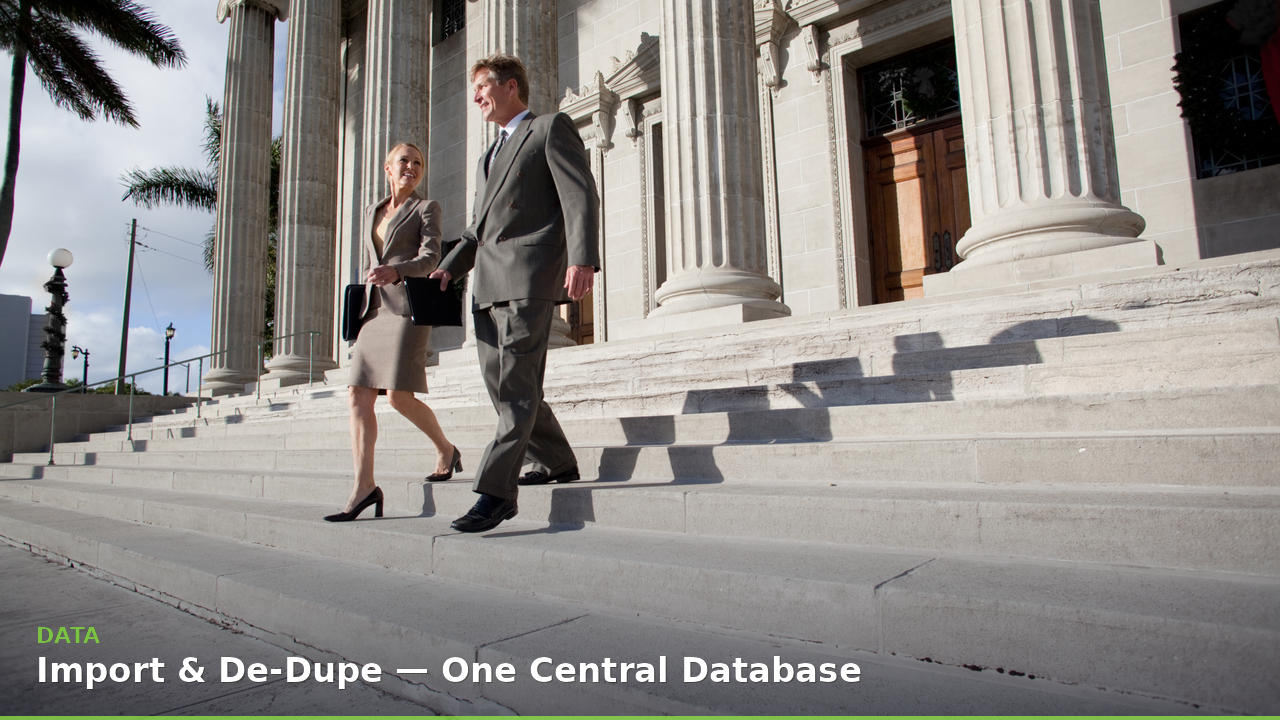
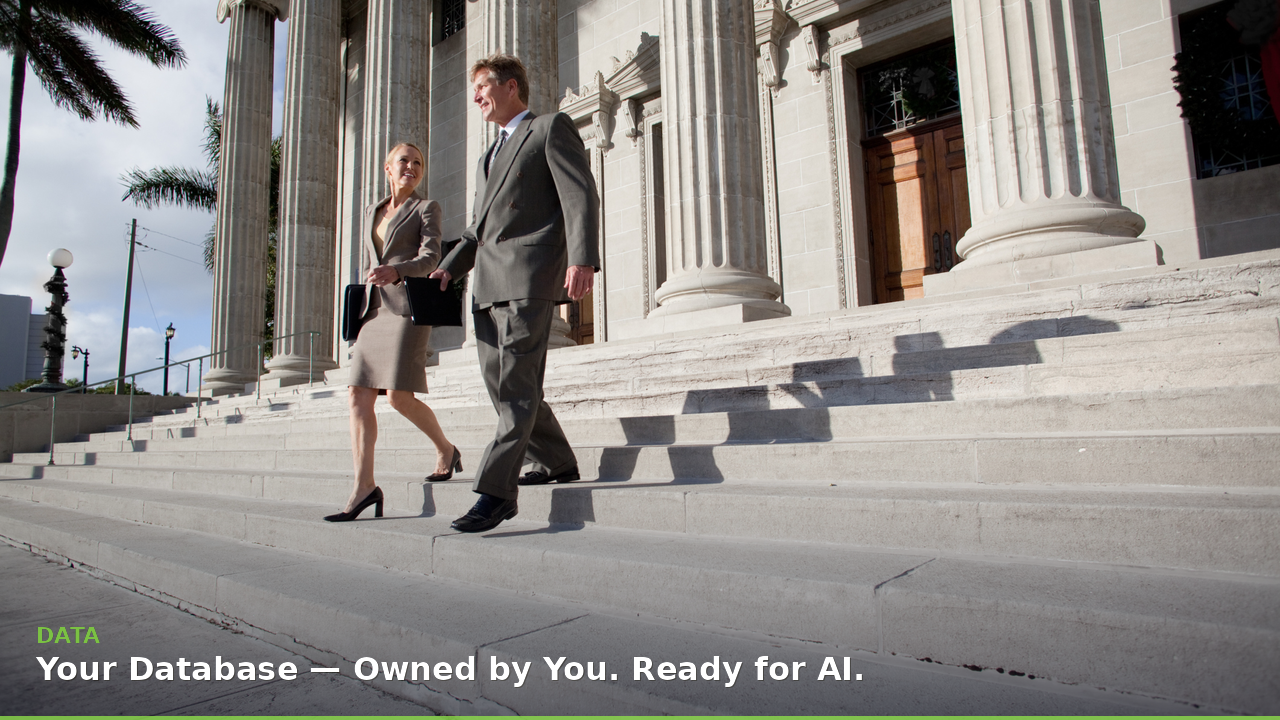
Capabilities Data: owned Database ready for AI — whisper + copy

Changed region(s): [[0.0312, 0.9167, 0.6875, 0.9472]]

diff --git a/capabilities/index.html b/capabilities/index.html
@@ -6,7 +6,7 @@
 <title>Capabilities | iDONATEpro</title>
 <meta name="description" content="From a messy Scranton list to Dundies night — Contacts, Import, Email, Call Sheets, Events in one Donor book. Call Time that wins.">
 <link rel="icon" href="/favicon.ico">
-<link rel="stylesheet" href="/css/site.css?v=102">
+<link rel="stylesheet" href="/css/site.css?v=103">
 </head>
 <body>
 <header class="site-header">
@@ -215,7 +215,7 @@
   <div class="wrap capability-grid">
         <div class="cap-media">
       <figure class="cap-shot">
-        <img src="/img/capabilities/data.png?v=4" alt="Data story graphic" width="1280" height="720" loading="lazy">
+        <img src="/img/capabilities/data.png?v=5" alt="Data story graphic" width="1280" height="720" loading="lazy">
       </figure>
     </div>
 <div class="capability-copy">
@@ -229,6 +229,7 @@
       <h3 class="capability-headline">Pull Data into iDONATEpro from anywhere.</h3>
       <p>Easily Import and De-Dupe Contact Records so you have a single Donor linked to their Entire History.</p>
       <p>With Unlimited Campaigns you can Import or Integrate data with all of the Data sources you need.</p>
+      <p>In the evolving world of AI, Fundraisers who win Own their Database — a Single Central Asset your Team and AI can Work With.</p>
       <ul class="capability-outcomes">
         <li>Import &amp; De-Dupe Contact Records into one Donor</li>
         <li>Entire History on a single Donor Profile</li>

diff --git a/icons/index.html b/icons/index.html
@@ -7,7 +7,7 @@
 <meta name="robots" content="noindex, nofollow">
 <meta name="description" content="Locked iDp icon set, five finishes.">
 <link rel="icon" href="/favicon.ico">
-<link rel="stylesheet" href="/css/site.css?v=102">
+<link rel="stylesheet" href="/css/site.css?v=103">
 <style>
 section.compare-board { padding: 3.25rem 0 5rem; background: var(--bg); }
 section.compare-board .wrap-board { width: min(72rem, calc(100% - 3rem)); margin-inline: auto; }

diff --git a/who-its-for/index.html b/who-its-for/index.html
@@ -6,7 +6,7 @@
 <title>Who It's For | iDONATEpro</title>
 <meta name="description" content="iDONATEpro is built for Political Fundraisers, Campaigns & Committees, and Regional Parties & 501(c) Organizations. See who you become with a Donor book that travels with you.">
 <link rel="icon" href="/favicon.ico">
-<link rel="stylesheet" href="/css/site.css?v=102">
+<link rel="stylesheet" href="/css/site.css?v=103">
 </head>
 <body>
 <header class="site-header">

diff --git a/index.html b/index.html
@@ -6,7 +6,7 @@
 <title>iDONATEpro | Political Fundraising CRM Software</title>
 <meta name="description" content="CRM software for Political Fundraisers, campaigns, committees, Regional Parties, and 501(c) Organizations. Book a free demo or start a 14-day trial.">
 <link rel="icon" href="/favicon.ico">
-<link rel="stylesheet" href="/css/site.css?v=102">
+<link rel="stylesheet" href="/css/site.css?v=103">
 </head>
 <body>
 <header class="site-header">

diff --git a/terms-and-conditions/index.html b/terms-and-conditions/index.html
@@ -6,7 +6,7 @@
 <title>Terms & Conditions | iDONATEpro</title>
 <meta name="description" content="CRM software for political fundraisers, campaigns, committees, regional parties, and 501(c) organizations. Book a free demo or start a 14-day trial.">
 <link rel="icon" href="/favicon.ico">
-<link rel="stylesheet" href="/css/site.css?v=102">
+<link rel="stylesheet" href="/css/site.css?v=103">
 </head>
 <body>
 <header class="site-header">

diff --git a/referral-program/index.html b/referral-program/index.html
@@ -6,7 +6,7 @@
 <title>Referral Program | iDONATEpro</title>
 <meta name="description" content="CRM software for Political Fundraisers, campaigns, committees, Regional Parties, and 501(c) Organizations. Book a free demo or start a 14-day trial.">
 <link rel="icon" href="/favicon.ico">
-<link rel="stylesheet" href="/css/site.css?v=102">
+<link rel="stylesheet" href="/css/site.css?v=103">
 </head>
 <body>
 <header class="site-header">

diff --git a/privacy-policy/index.html b/privacy-policy/index.html
@@ -6,7 +6,7 @@
 <title>Privacy Policy | iDONATEpro</title>
 <meta name="description" content="CRM software for political fundraisers, campaigns, committees, regional parties, and 501(c) organizations. Book a free demo or start a 14-day trial.">
 <link rel="icon" href="/favicon.ico">
-<link rel="stylesheet" href="/css/site.css?v=102">
+<link rel="stylesheet" href="/css/site.css?v=103">
 </head>
 <body>
 <header class="site-header">

diff --git a/testimonials/index.html b/testimonials/index.html
@@ -6,7 +6,7 @@
 <title>Testimonials | iDONATEpro</title>
 <meta name="description" content="CRM software for Political Fundraisers, campaigns, committees, Regional Parties, and 501(c) Organizations. Book a free demo or start a 14-day trial.">
 <link rel="icon" href="/favicon.ico">
-<link rel="stylesheet" href="/css/site.css?v=102">
+<link rel="stylesheet" href="/css/site.css?v=103">
 </head>
 <body>
 <header class="site-header">

diff --git a/security/index.html b/security/index.html
@@ -6,7 +6,7 @@
 <title>Security | iDONATEpro</title>
 <meta name="description" content="CRM software for political fundraisers, campaigns, committees, regional parties, and 501(c) organizations. Book a free demo or start a 14-day trial.">
 <link rel="icon" href="/favicon.ico">
-<link rel="stylesheet" href="/css/site.css?v=102">
+<link rel="stylesheet" href="/css/site.css?v=103">
 </head>
 <body>
 <header class="site-header">

diff --git a/pricing/index.html b/pricing/index.html
@@ -6,7 +6,7 @@
 <title>Pricing | iDONATEpro</title>
 <meta name="description" content="CRM software for Political Fundraisers, campaigns, committees, Regional Parties, and 501(c) Organizations. Book a free demo or start a 14-day trial.">
 <link rel="icon" href="/favicon.ico">
-<link rel="stylesheet" href="/css/site.css?v=102">
+<link rel="stylesheet" href="/css/site.css?v=103">
 </head>
 <body>
 <header class="site-header">

diff --git a/signup/index.html b/signup/index.html
@@ -6,7 +6,7 @@
 <title>Sign Up | iDONATEpro</title>
 <meta name="description" content="CRM software for Political Fundraisers, campaigns, committees, Regional Parties, and 501(c) Organizations. Book a free demo or start a 14-day trial.">
 <link rel="icon" href="/favicon.ico">
-<link rel="stylesheet" href="/css/site.css?v=102">
+<link rel="stylesheet" href="/css/site.css?v=103">
 </head>
 <body>
 <header class="site-header">

diff --git a/about/index.html b/about/index.html
@@ -6,7 +6,7 @@
 <title>About | iDONATEpro</title>
 <meta name="description" content="CRM software for Political Fundraisers, campaigns, committees, Regional Parties, and 501(c) Organizations. Book a free demo or start a 14-day trial.">
 <link rel="icon" href="/favicon.ico">
-<link rel="stylesheet" href="/css/site.css?v=102">
+<link rel="stylesheet" href="/css/site.css?v=103">
 </head>
 <body>
 <header class="site-header">
